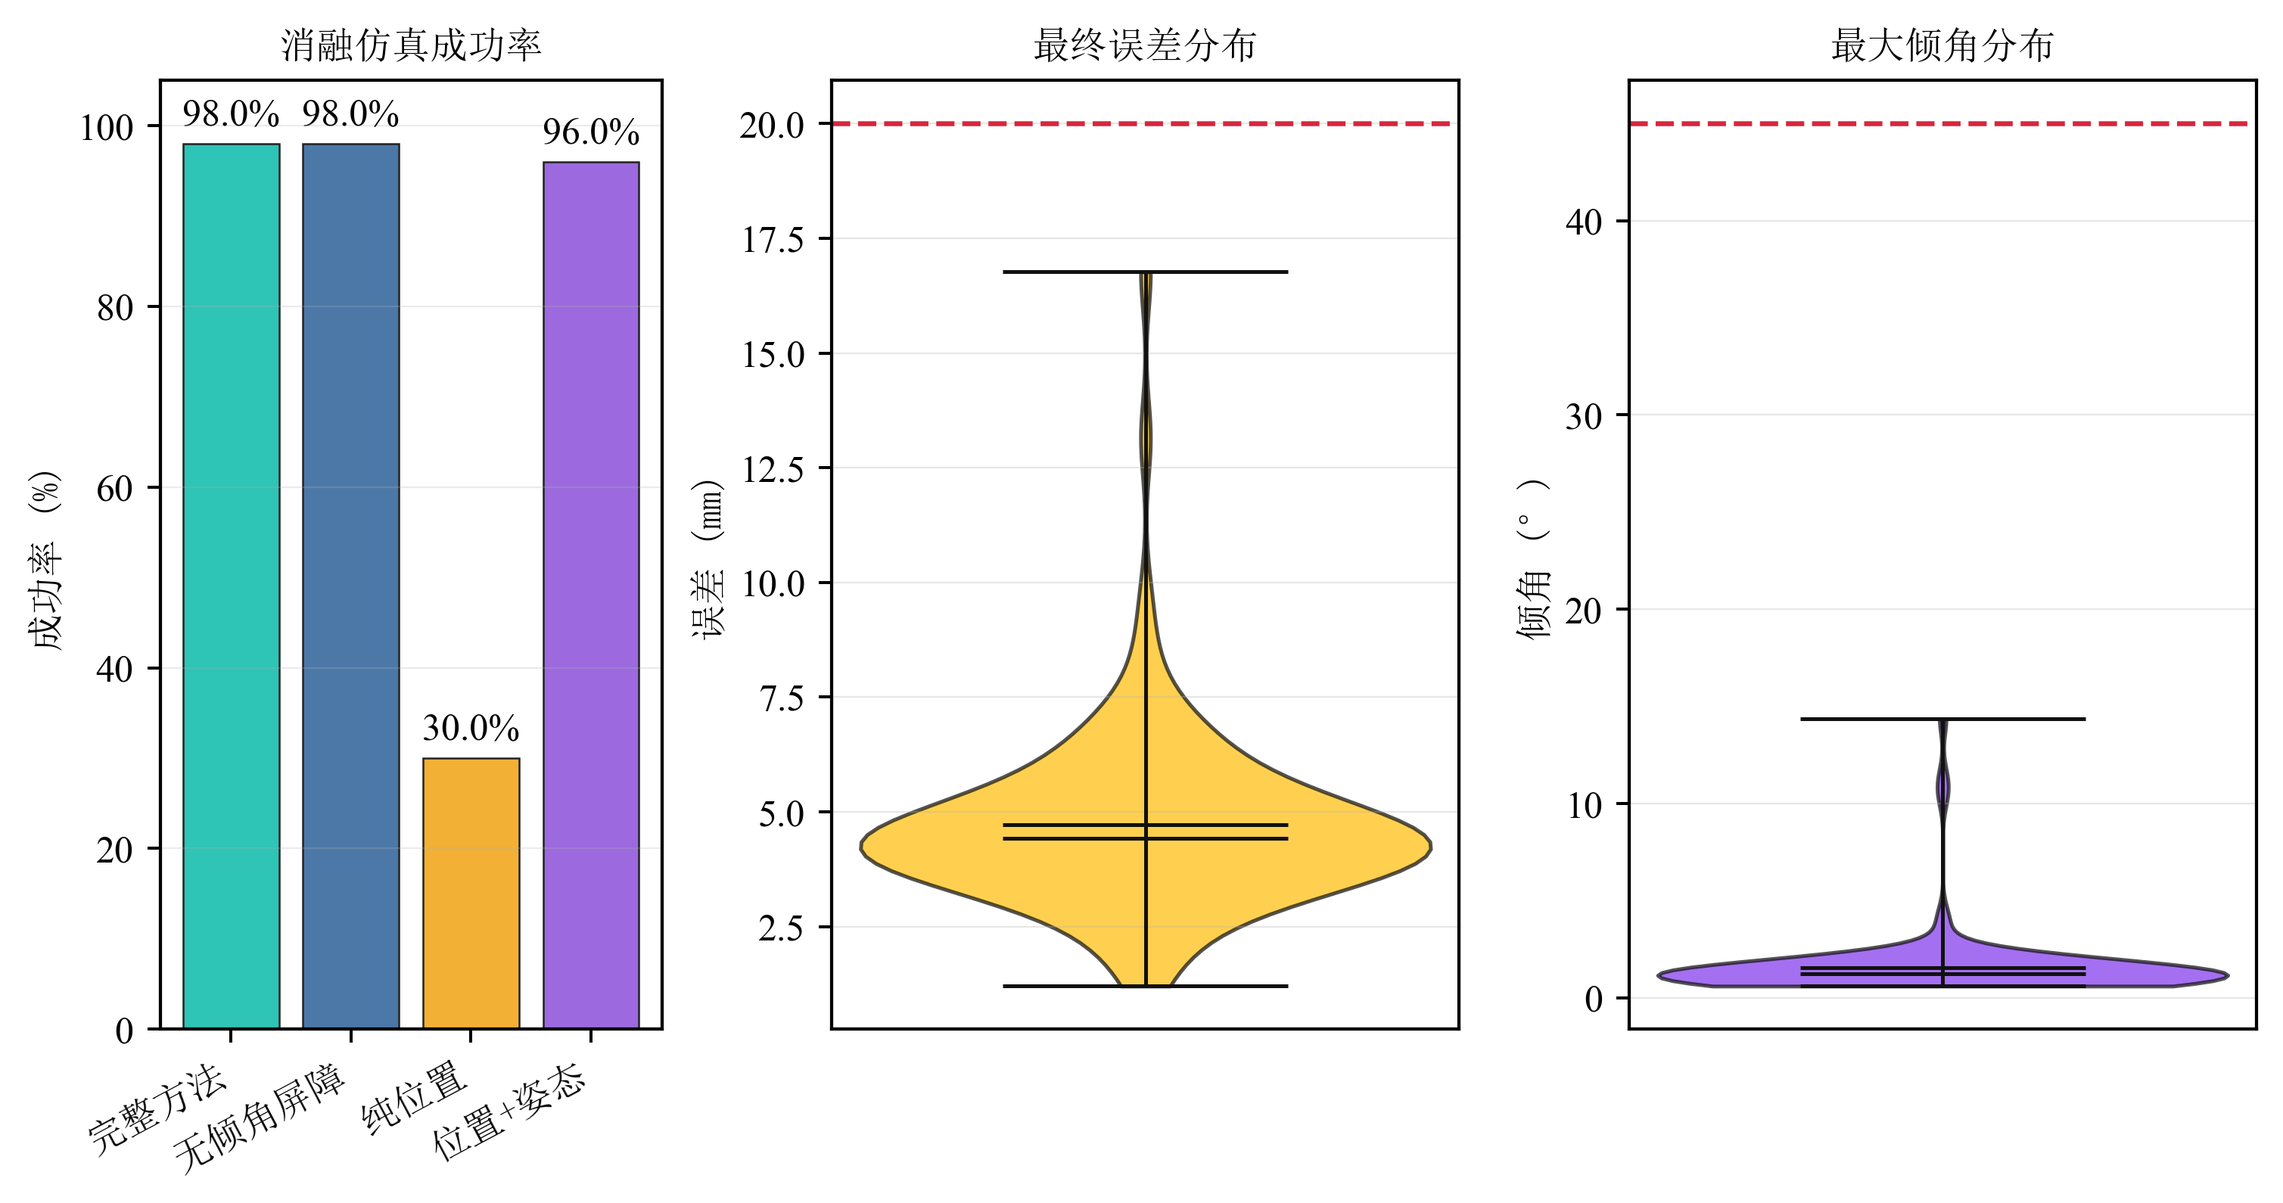
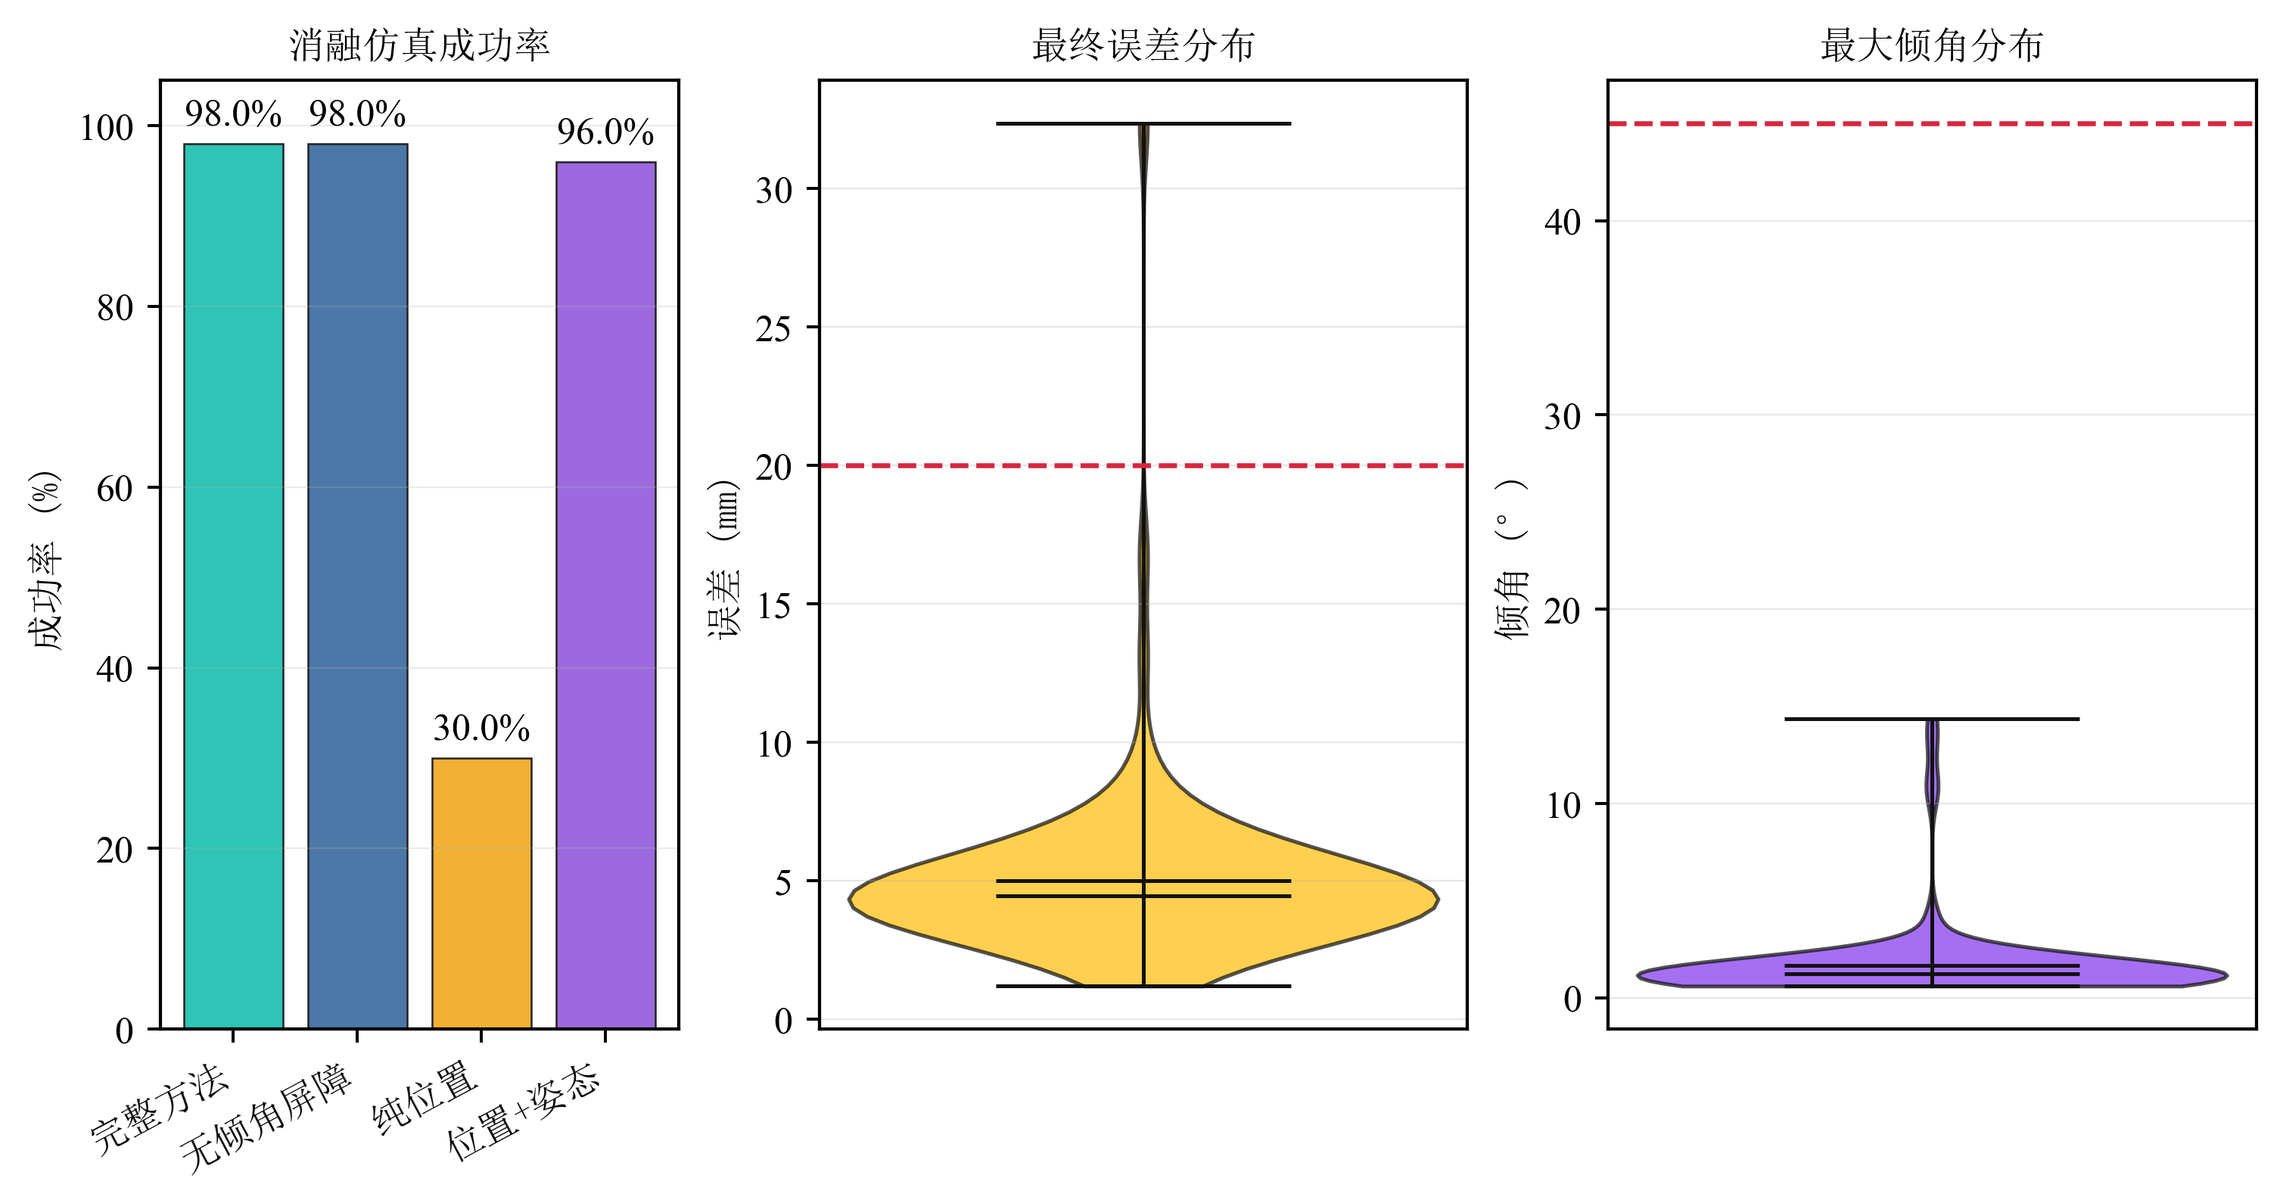
review0604_round3_p3_address_final_review_findings

diff --git a/tests/test_baseline_comparison.py b/tests/test_baseline_comparison.py
@@ -5,7 +5,7 @@ from pathlib import Path
 
 sys.path.insert(0, str(Path(__file__).resolve().parents[1] / "src"))
 
-from baseline_comparison import ABLATION_VARIANTS
+from baseline_comparison import ABLATION_VARIANTS, summarize_results
 
 
 class TightTiltVariantTests(unittest.TestCase):
@@ -24,6 +24,34 @@ class TightTiltVariantTests(unittest.TestCase):
         self.assertFalse(no_barrier.use_tilt_barrier)
         self.assertTrue(no_barrier.use_continuity)
         self.assertTrue(no_barrier.use_limit)
+
+    def test_summary_safety_metrics_include_failed_executed_simulations(self):
+        rows = [
+            {
+                "planned_success": True,
+                "sim_success": True,
+                "final_error_m": 0.01,
+                "max_tilt_deg": 2.0,
+                "plan_time_s": 0.1,
+                "plan_nfev": 10,
+            },
+            {
+                "planned_success": True,
+                "sim_success": False,
+                "final_error_m": 0.03,
+                "max_tilt_deg": 20.0,
+                "plan_time_s": 0.1,
+                "plan_nfev": 10,
+            },
+        ]
+
+        summary = summarize_results(rows, "full_method")
+
+        self.assertEqual(summary["sim_success"], 1)
+        self.assertAlmostEqual(summary["mean_final_error_m"], 0.02)
+        self.assertEqual(summary["max_final_error_m"], 0.03)
+        self.assertAlmostEqual(summary["mean_max_tilt_deg"], 11.0)
+        self.assertEqual(summary["max_max_tilt_deg"], 20.0)
 
 
 if __name__ == "__main__":

diff --git a/tests/test_baseline_priority_ik.py b/tests/test_baseline_priority_ik.py
@@ -65,6 +65,34 @@ class PriorityIKUtilityTests(unittest.TestCase):
             ],
         )
 
+    def test_summary_safety_metrics_include_failed_executed_simulations(self):
+        rows = [
+            {
+                "planned_success": True,
+                "sim_success": True,
+                "final_error_m": 0.01,
+                "max_tilt_deg": 2.0,
+                "plan_time_s": 0.2,
+                "plan_nfev": 45,
+            },
+            {
+                "planned_success": True,
+                "sim_success": False,
+                "final_error_m": 0.03,
+                "max_tilt_deg": 20.0,
+                "plan_time_s": 0.3,
+                "plan_nfev": 60,
+            },
+        ]
+
+        summary = summarize_results(rows)
+
+        self.assertEqual(summary["sim_success"], 1)
+        self.assertAlmostEqual(summary["mean_final_error_m"], 0.02)
+        self.assertEqual(summary["max_final_error_m"], 0.03)
+        self.assertAlmostEqual(summary["mean_max_tilt_deg"], 11.0)
+        self.assertEqual(summary["max_max_tilt_deg"], 20.0)
+
 
 if __name__ == "__main__":
     unittest.main()

diff --git a/src/paper_figures.py b/src/paper_figures.py
@@ -337,9 +337,22 @@ def plot_success_metrics_dashboard(
     ablation_rows: List[Dict[str, object]],
     out_dir: Path,
 ) -> None:
-    success_rows = [row for row in rows if row["success"]]
-    errors = np.asarray([float(row["final_error_m"]) * 1000 for row in success_rows], dtype=float)
-    tilts = np.asarray([float(row["max_tilt_deg"]) for row in success_rows], dtype=float)
+    errors = np.asarray(
+        [
+            float(row["final_error_m"]) * 1000
+            for row in rows
+            if np.isfinite(float(row["final_error_m"]))
+        ],
+        dtype=float,
+    )
+    tilts = np.asarray(
+        [
+            float(row["max_tilt_deg"])
+            for row in rows
+            if np.isfinite(float(row["max_tilt_deg"]))
+        ],
+        dtype=float,
+    )
 
     fig = plt.figure(figsize=(8.4, 4.4), facecolor="white")
     gs = gridspec.GridSpec(1, 3, width_ratios=[0.8, 1.0, 1.0], figure=fig)

diff --git a/src/baseline_priority_ik.py b/src/baseline_priority_ik.py
@@ -183,8 +183,16 @@ def summarize_results(results: list[dict]) -> dict:
     total = len(results)
     planned = sum(bool(row["planned_success"]) for row in results)
     simulated = sum(row["sim_success"] is True for row in results)
-    errors = [row["final_error_m"] for row in results if row["sim_success"] is True]
-    tilts = [row["max_tilt_deg"] for row in results if row["sim_success"] is True]
+    errors = [
+        float(row["final_error_m"])
+        for row in results
+        if np.isfinite(float(row["final_error_m"]))
+    ]
+    tilts = [
+        float(row["max_tilt_deg"])
+        for row in results
+        if np.isfinite(float(row["max_tilt_deg"]))
+    ]
     plan_times = [row["plan_time_s"] for row in results]
     nfevs = [row["plan_nfev"] for row in results]
     return {

diff --git a/src/baseline_comparison.py b/src/baseline_comparison.py
@@ -394,8 +394,16 @@ def summarize_results(results: List[dict], variant_name: str) -> dict:
     sim_ok = sum(1 for r in results if r["sim_success"] is True)
     sim_planned = sum(1 for r in results if r["planned_success"] is True)
 
-    errors = [r["final_error_m"] for r in results if r["sim_success"]]
-    tilts = [r["max_tilt_deg"] for r in results if r["sim_success"]]
+    errors = [
+        float(r["final_error_m"])
+        for r in results
+        if np.isfinite(float(r["final_error_m"]))
+    ]
+    tilts = [
+        float(r["max_tilt_deg"])
+        for r in results
+        if np.isfinite(float(r["max_tilt_deg"]))
+    ]
     plan_times = [r["plan_time_s"] for r in results]
     plan_nfevs = [r["plan_nfev"] for r in results]
 

diff --git a/docs/theory_and_simulation.md b/docs/theory_and_simulation.md
@@ -174,7 +174,7 @@ s(t) = 3t^2 - 2t^3,\quad t \in [0,1]
 ### 4.3 分析
 
 **发现 1：默认权重下倾角屏障未被激活**
-数据表明，在默认权重下，移除 tilt_barrier 后的 IK 可达率和仿真成功率均与完整方法相同，分别为 148/150 和 147/150。orientation 项（权重 0.90）已将平均和峰值倾角压到 1.17° 和 5.11°，远低于 45° 触发阈值。因此，本实验条件下不能据此主张倾角屏障对常规工况有独立增益；其激活条件在 §4.4 中另行检验。
+数据表明，在默认权重下，移除 tilt_barrier 后的 IK 可达率和仿真成功率均与完整方法相同，分别为 148/150 和 147/150。在所有实际执行的仿真中，orientation 项（权重 0.90）对应的平均和峰值倾角为 1.23° 和 10.15°，仍低于 45° 触发阈值。因此，本实验条件下不能据此主张倾角屏障对常规工况有独立增益；其激活条件在 §4.4 中另行检验。
 
 **发现 2：纯位置变体主要收窄 IK 可达空间**
 在本实验条件下，position_only 变体仅对 45/150 个目标生成可行规划，IK 可达率为 30%。然而，这 45 条可规划轨迹全部通过仿真执行，因此数据不支持“纯位置 IK 导致跟踪失败”的解读。更准确的结论是，缺少姿态、连续性与限位残差主要降低了规划可达性，相关边界条件在 §4.4 中进一步考察。
@@ -192,13 +192,13 @@ s(t) = 3t^2 - 2t^3,\quad t \in [0,1]
 
 | 变体 | IK 可达 | 仿真成功 | 平均最大倾角（°） | 全局最大倾角（°） |
 |---|---|---|---|---|
-| full_tight10 | 148/150 | 147/150（98.0%） | 1.17 | 5.11 |
-| no_barrier_tight10 | 148/150 | 147/150（98.0%） | 1.17 | 5.11 |
+| full_tight10 | 148/150 | 147/150（98.0%） | 1.23 | 10.15 |
+| no_barrier_tight10 | 148/150 | 147/150（98.0%） | 1.23 | 10.15 |
 
 > 数据来源：outputs/ablation_study_tight10/ablation_summary.csv。
 
 **发现 4：10° 阈值仍未分离两种变体的表现**
-在收紧阈值的条件下，两种变体的 IK 可达率、仿真成功率和倾角统计仍基本相同，成功率差为 0 个百分点。即使将阈值收紧到 10°，tilt_barrier 的独立贡献仍不显著，说明 orientation 项已提供足够的倾角保护，而 tilt_barrier 在当前权重和目标分布下主要是保险丝性质的冗余约束。若需量化其激活后的效果，还需使用低于观测峰值的阈值或更具挑战性的目标集。
+在收紧阈值的条件下，两种变体的 IK 可达率、仿真成功率和倾角统计仍基本相同，成功率差为 0 个百分点。两种变体的规划轨迹峰值倾角均仅为 5.14°，因而 10° 规划屏障未被激活；但仿真执行的峰值达 10.15°，说明小规划倾角并不保证动态跟踪不越界。因此，本实验仅支持“当前规划轨迹未触发 tilt_barrier”，不支持将 orientation 解读为已提供充分的动态倾角保护。若需量化屏障激活后的效果，还需使用低于 5.14° 的规划阈值或更具挑战性的目标集。
 
 ### 4.5 外部方法对比
 
@@ -206,12 +206,12 @@ s(t) = 3t^2 - 2t^3,\quad t \in [0,1]
 
 | 方法 | IK 可达率 | 仿真成功率 | 平均误差（mm） | 平均最大倾角（°） | 平均规划时间（s） |
 |---|---:|---:|---:|---:|---:|
-| full_method（本文） | 98.7% | 98.0% | 4.91 | 1.17 | 0.182 |
-| priority_ik | 100.0% | 94.0% | 10.79 | 6.17 | 0.037 |
+| full_method（本文） | 98.7% | 98.0% | 5.11 | 1.23 | 0.182 |
+| priority_ik | 100.0% | 94.0% | 11.42 | 6.45 | 0.037 |
 
 > 数据来源：outputs/ablation_study/ablation_summary.csv 和 outputs/external_baselines/priority_ik_summary.csv；两种方法使用相同的 3 个随机种子与 150 个目标。
 
-full_method 将位置、姿态、连续性、限位中心化和倾角屏障作为软权重残差联合优化，priority_ik 则先求解位置任务，再将竖直姿态任务投影到位置 Jacobian 的零空间。后者使用显式伪逆，平均规划时间仅为 0.037 s，低于 `least_squares` 的 0.182 s；但其平均误差和平均最大倾角分别增至 10.79 mm 和 6.17°。两者的仿真成功率相差 4 个百分点，未达预设的 5% 显著差异触发阈值，因此在此任务上总体表现相近。本文方法的实证优势主要体现在较低的跟踪误差和倾角，其中连续性与限位控制的独立作用仍需额外对照。priority_ik 在无 tilt_barrier 时仍达到 94.0% 仿真成功率，也与 §4.4 中“默认工况下屏障独立贡献有限”的观察一致。
+full_method 将位置、姿态、连续性、限位中心化和倾角屏障作为软权重残差联合优化，priority_ik 则先求解位置任务，再将竖直姿态任务投影到位置 Jacobian 的零空间。后者使用显式伪逆，平均规划时间为 0.037 s，低于 `least_squares` 的 0.182 s；但在所有实际执行的仿真中，其平均误差和平均最大倾角分别为 11.42 mm 和 6.45°，高于 full_method 的 5.11 mm 和 1.23°。匹配结果为 141 个目标两者均成功、6 个仅 full_method 成功、0 个仅 priority_ik 成功、3 个两者均失败；精确双侧 McNemar 二项检验得 p = 0.03125。因此，尽管绝对成功率差为 4 个百分点，当前匹配样本仍支持 full_method 具有较高的仿真成功率。该差异不能单独归因于任一残差，连续性与限位控制的独立作用仍需额外对照。
 
 ## 5. 权重灵敏度分析
 
@@ -392,7 +392,7 @@ python src/baseline_comparison.py --targets 50 --seeds 3 --out outputs/ablation_
 
 # 增强实验 (Round 2)
 python src/enhanced_experiments.py --mode all --targets 50 --seeds 10 --out outputs/round2_experiments
-python src/enhanced_experiments.py --mode sensitivity --targets 50 --out outputs/round2_experiments
+python src/enhanced_experiments.py --mode sensitivity --targets 30 --with-sim --out outputs/round2_experiments
 python src/enhanced_experiments.py --mode expanded --targets 80 --out outputs/round2_experiments
 python src/enhanced_experiments.py --mode dynamic --targets 30 --out outputs/round2_experiments
 

diff --git a/review-stage/round2_review/RR_RESPONSE_LETTER.md b/review-stage/round2_review/RR_RESPONSE_LETTER.md
@@ -38,7 +38,7 @@ Dear Editor,
 
 > 收紧 `tilt-limit-deg` 到 5° 或 10° 重跑 ablation，观察此时 tilt_barrier 与 no_tilt_barrier 的差别。
 
-**Author's Response**：我们将 `tilt_limit_deg` 收紧到 10°，对两种变体各运行 3 个随机种子 × 50 个目标。两者均取得 147/150（98.0%）仿真成功，平均/全局最大倾角均为 1.17°/5.11°。该阴性结果表明 10° 仍未分离两种配置，因此我们将其表述为“收紧阈值对照”，并明确说明若要量化屏障激活后的效果，仍需更低阈值或更具挑战性的目标集。
+**Author's Response**：我们将 `tilt_limit_deg` 收紧到 10°，对两种变体各运行 3 个随机种子 × 50 个目标。两者均取得 147/150（98.0%）仿真成功；在所有实际执行的仿真中，平均/全局最大倾角均为 1.23°/10.15°。两种变体的规划倾角峰值均为 5.14°，因而 10° 规划屏障未被激活；仿真峰值达 10.15° 还表明规划倾角不能保证动态跟踪不越界。我们因此将其如实表述为阴性结果，并说明若要量化屏障激活后的效果，需使用低于 5.14° 的规划阈值或更具挑战性的目标集。
 
 **Location in Revised Manuscript**：§4.4，表 4。
 
@@ -66,13 +66,13 @@ Dear Editor,
 
 > 在 §1 与 §2 之间新增相关工作，覆盖约束 IK、优先级 IK、DLS/SNS、pouring、sloshing 和 TOPP。
 
-**Author's Response**：我们新增六个相关工作子节和 13 条参考文献，并将本文定位为对已有容器运输、sloshing 抑制和时间参数化工作的增量实证补充。所有引用均有对应的文末条目；无法核验的提示词文献未被写入。
+**Author's Response**：我们新增六个相关工作子节和 13 条参考文献，并将本文定位为对已有容器运输、sloshing 抑制和时间参数化工作的增量实证补充。在引用核验中，提示词指定的 Muchacho & Ratliff (2018)、Do et al. (2014) 和“Chen et al. (2021) reactive pouring”无法通过 Crossref/OpenAlex 确认精确条目；“Moriello et al. (2018 IROS)”的可核验 IROS 条目实际为 Biagiotti et al. (2018)。为避免引用虚构或归属错误，我们以可核验的 Sekine et al. (2016)、Moriello et al. (2018, *Control Engineering Practice*)、Biagiotti et al. (2018, IROS) 和 Huang et al. (2021) 覆盖同一主题。所有正文引用均有对应的文末条目。
 
 **Location in Revised Manuscript**：§1.5.1–§1.5.6；§11 参考文献。
 
 **Related Commit**：`5b51673 review0604_round3_p1_1_related_work`。
 
-**Verified?**：[x]
+**Verified?**：[x]（已完成主题覆盖；无法核验的指定条目已以可核验文献替代）
 
 ---
 
@@ -80,7 +80,7 @@ Dear Editor,
 
 > 至少选择 1 个外部对手（例如优先级 IK）运行相同 150 个目标。
 
-**Author's Response**：我们实现了位置主任务和竖直姿态零空间次任务的优先级 IK，并在相同随机种子与 150 个目标上比较。优先级 IK 的仿真成功率为 94.0%，完整方法为 98.0%；两者差异为 4 个百分点，未达预设 5% 触发阈值。修订稿同时报告误差、倾角和规划时间。
+**Author's Response**：我们实现了位置主任务和竖直姿态零空间次任务的优先级 IK，并在相同随机种子与 150 个匹配目标上比较。匹配结果为 141 个两者均成功、6 个仅完整方法成功、0 个仅优先级 IK 成功、3 个两者均失败。精确双侧 McNemar 二项检验得 p = 0.03125，因此修订稿不再以“差异小于 5%”代替显著性检验，而是报告完整方法在当前匹配样本上具有较高仿真成功率。修订稿同时报告所有已执行仿真的误差、倾角和规划时间。
 
 **Location in Revised Manuscript**：§4.5，表 5。对应的散点图已作为修订包图形产物 `fig08_baseline_comparison.png` 导出。
 

diff --git a/review-stage/round2_review/FINAL_CHECKLIST.md b/review-stage/round2_review/FINAL_CHECKLIST.md
@@ -5,6 +5,8 @@
 - [x] `check_data_integrity.py --strict` PASS
 - [x] 无“实验运行中”、`TBD`、`TODO`、`XXX`、`??`、`± σ`、“标准差 -”或“首次”残留
 - [x] 表 3 的四个消融变体与 `outputs/ablation_study/ablation_summary.csv` 完全一致
+- [x] 误差与倾角安全统计包含所有实际执行的仿真，未排除仿真失败轨迹
+- [x] 外部 baseline 的 150 个目标已逐行匹配，精确双侧 McNemar 二项检验为 p = 0.03125
 - [x] 13 个正文引用键与 13 条参考文献一一对应
 
 ## 图片
@@ -41,5 +43,5 @@
 
 ## 待办
 
-- [ ] 10° 收紧阈值实验仍未实际分离 `full_tight10` 与 `no_barrier_tight10`。若投稿时仍希望主张 tilt barrier 的独立贡献，需使用低于当前观测峰值 5.11° 的阈值，或构造更具挑战性的目标集；当前稿件已将该点如实写为阴性结果与限制。
+- [ ] 10° 收紧阈值实验仍未实际分离 `full_tight10` 与 `no_barrier_tight10`。两种变体的规划倾角峰值均为 5.14°，但仿真倾角峰值达 10.15°。若投稿时仍希望主张 tilt barrier 的独立贡献，需使用低于 5.14° 的规划阈值，或构造更具挑战性的目标集；当前稿件已将该点如实写为阴性结果与限制。
 - [ ] 目标期刊尚未指定。正式投稿前需再核对期刊的章节顺序、字数、引用格式、图尺寸与 AI 使用披露要求。
